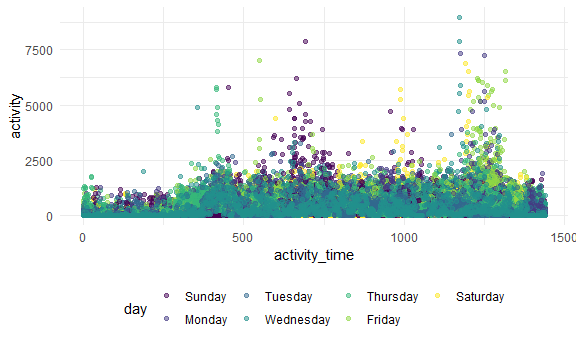
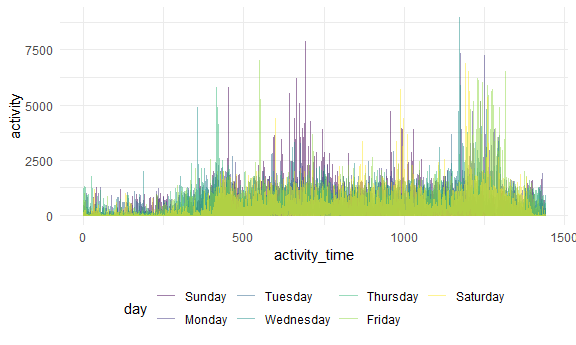
Update problem 3, switch point plot to line plot

diff --git a/p8105_hw3_zl3119.md b/p8105_hw3_zl3119.md
@@ -264,7 +264,8 @@ excellet_response_df %>%
 The weighted average of data value are fluctuate from 2002 to 2010 in
 different states.
 
-If we do not consider sample size, we
+If we do not consider sample size, the mean data value line plot looks
+like this:
 
 ``` r
 excellet_response_df %>% 
@@ -438,7 +439,7 @@ accel_longer =
 
 accel_longer %>%
   ggplot(aes(x = activity_time, y = activity, color = day)) +
-  geom_point(alpha = 0.5) 
+  geom_line(alpha = 0.5) 
 ```
 
 <img src="p8105_hw3_zl3119_files/figure-gfm/unnamed-chunk-13-1.png" width="95%" />
@@ -447,7 +448,7 @@ In Sunday, the man is active in the mid of the day; In Friday, Saturday
 and Sunday, the man is active in the end of the day. In addition, he is
 not active from 0 to 300, this is probabaly his regular sleeping hours.
 
-Also we can make a groupby day plot to show day contrast (Monday:Sunday)
+Also we can make a groupby-day plot to show day contrast (Monday:Sunday)
 more clearly
 
 ``` r
@@ -455,7 +456,7 @@ accel_longer %>%
   group_by(day, activity_time) %>% 
   summarise(mean_activity = mean(activity)) %>%
   ggplot(aes(x = activity_time, y = mean_activity, color = day)) +
-  geom_point(alpha = 0.5) 
+  geom_line(alpha = 0.5) 
 ```
 
 <img src="p8105_hw3_zl3119_files/figure-gfm/unnamed-chunk-14-1.png" width="95%" />
